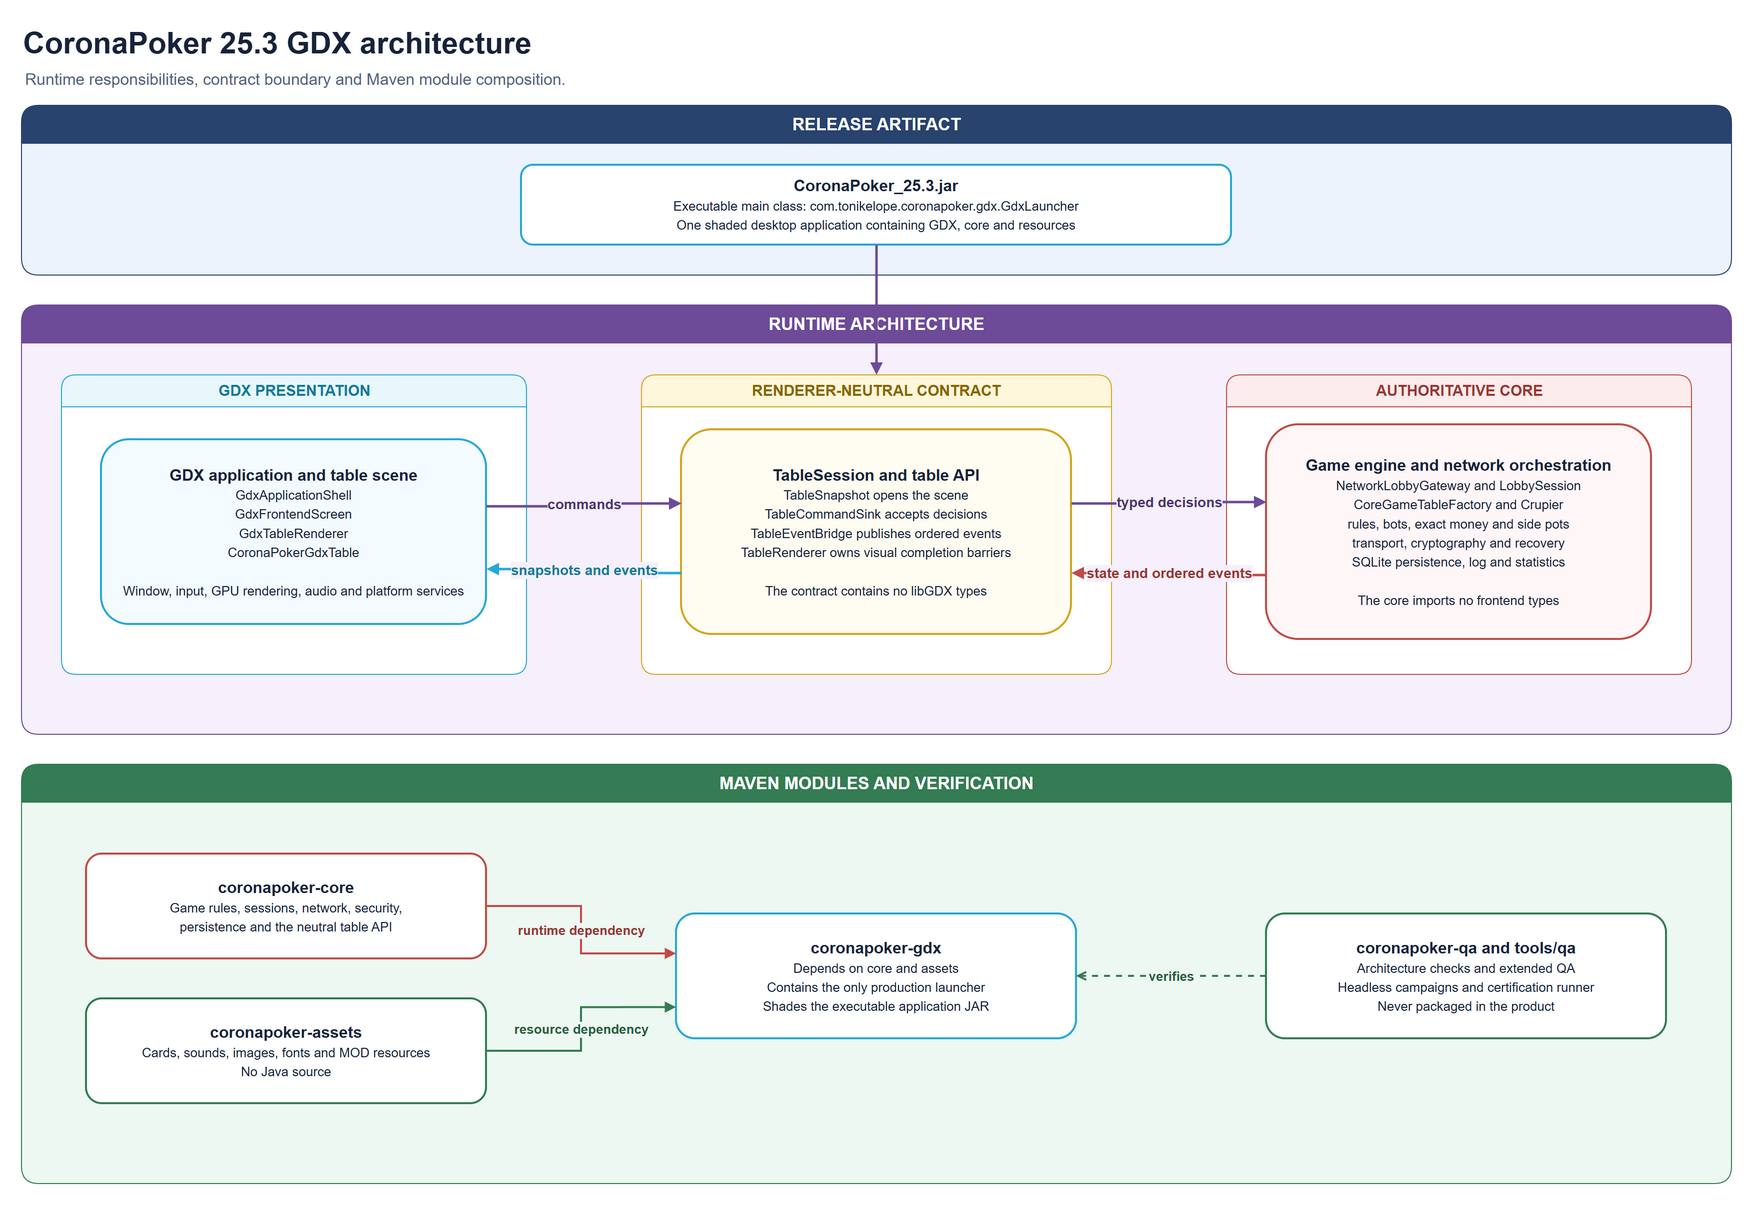
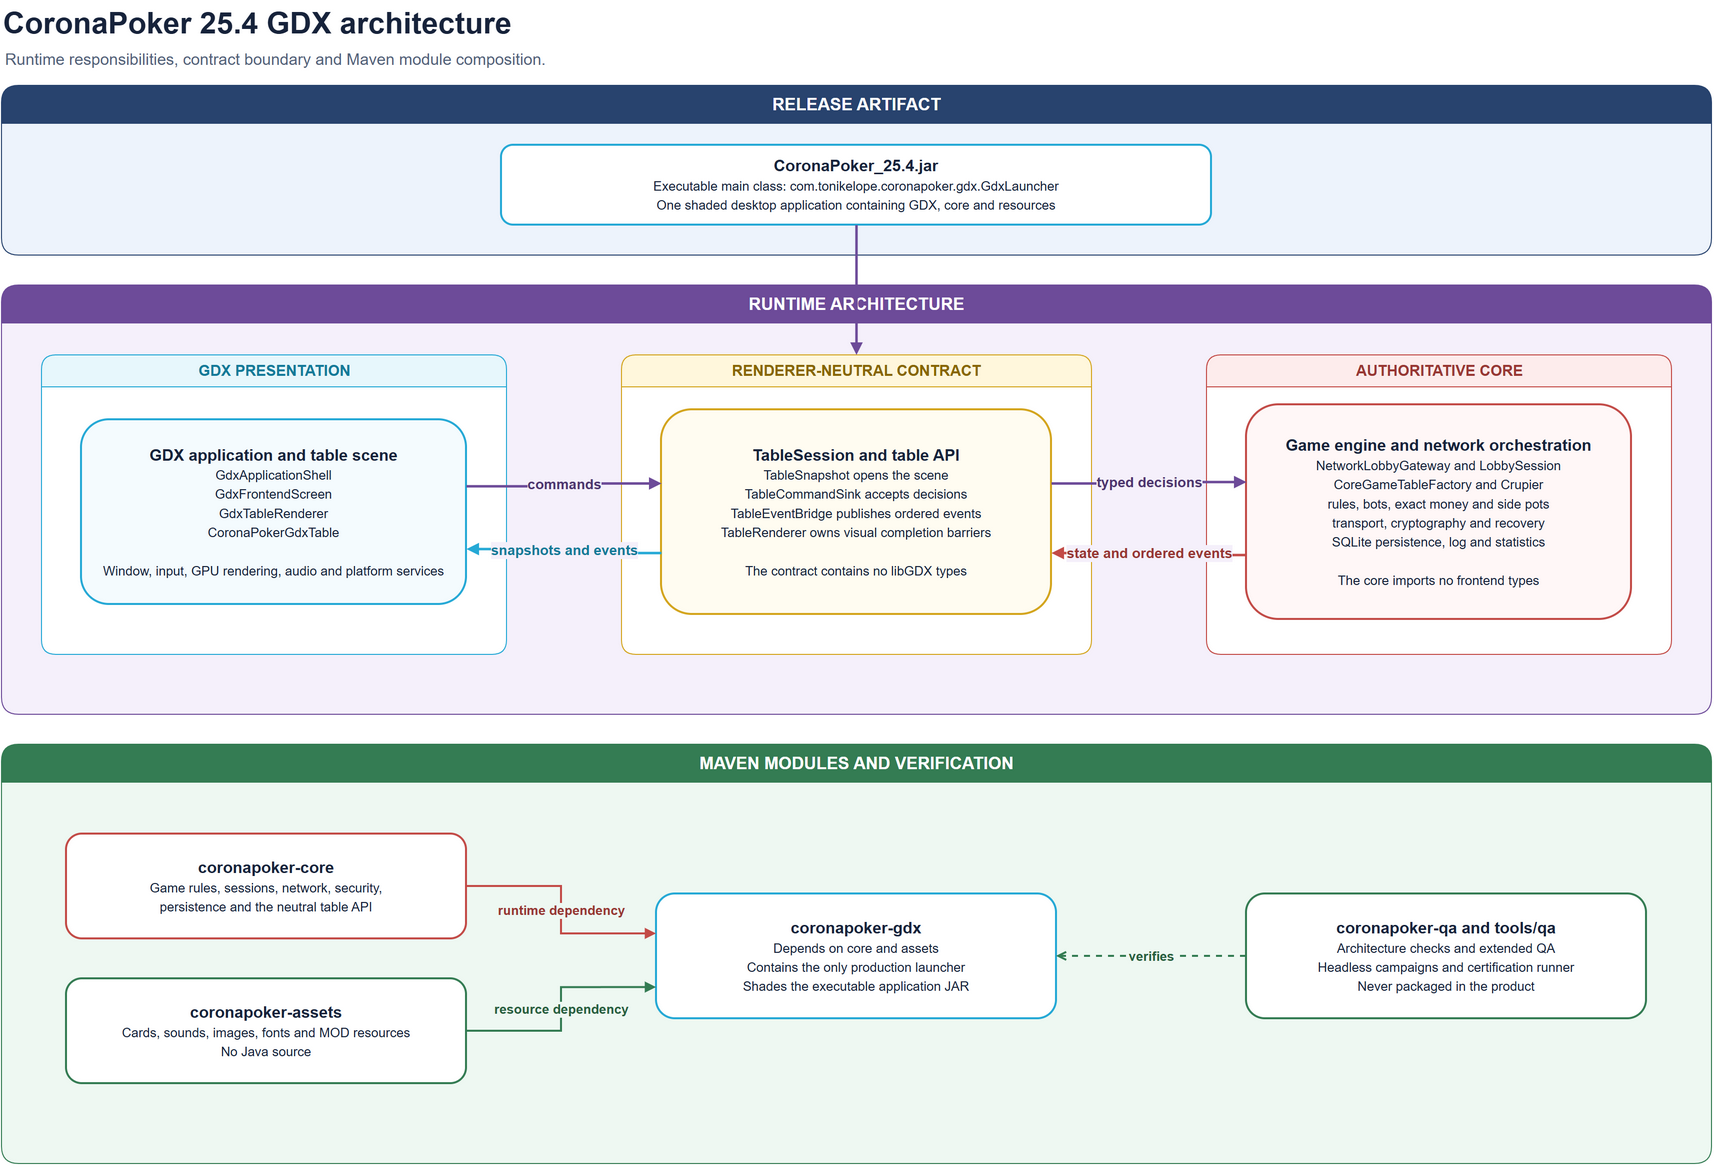
Release CoronaPoker 25.4

diff --git a/modules/coronapoker-gdx/src/main/java/com/tonikelope/coronapoker/gdx/GdxFrontendScreen.java b/modules/coronapoker-gdx/src/main/java/com/tonikelope/coronapoker/gdx/GdxFrontendScreen.java
@@ -268,6 +268,7 @@ final class GdxFrontendScreen extends ApplicationAdapter implements InputProcess
     private Texture aboutMourningIcon;
     private Texture aboutBookIcon;
     private Texture aboutCrossIcon;
+    private Texture aboutModIcon;
     private Sound soundEnabledCue;
     private Sound soundDisabledCue;
     private Sound participantJoinedCue;
@@ -488,6 +489,8 @@ final class GdxFrontendScreen extends ApplicationAdapter implements InputProcess
         aboutBookIcon = silhouetteTexture("images/open-book.png",
                 new Color(0xeaf8ffff));
         aboutCrossIcon = filteredTexture("images/cruz.png");
+        aboutModIcon = externalTexture(
+                presentationSettings.modAsset("mod.png").orElse(null));
         soundEnabledCue = Gdx.audio.newSound(
                 Gdx.files.internal("sounds/misc/button_on.wav"));
         soundDisabledCue = Gdx.audio.newSound(
@@ -782,9 +785,21 @@ final class GdxFrontendScreen extends ApplicationAdapter implements InputProcess
             } else if (aboutOpen && aboutEasterEggTexture == null) {
                 float logoHeight = ABOUT_LOGO_WIDTH * logo.getHeight()
                         / logo.getWidth();
+                float logoX = aboutModIcon == null
+                        ? WIDTH / 2f - ABOUT_LOGO_WIDTH / 2f
+                        : WIDTH / 2f - ABOUT_LOGO_WIDTH - 16f;
                 batch.setColor(Color.WHITE);
-                batch.draw(logo, WIDTH / 2f - ABOUT_LOGO_WIDTH / 2f,
+                batch.draw(logo, logoX,
                         ABOUT_LOGO_Y, ABOUT_LOGO_WIDTH, logoHeight);
+                if (aboutModIcon != null) {
+                    float scale = Math.min(180f / aboutModIcon.getWidth(),
+                            72f / aboutModIcon.getHeight());
+                    float modWidth = aboutModIcon.getWidth() * scale;
+                    float modHeight = aboutModIcon.getHeight() * scale;
+                    batch.draw(aboutModIcon, WIDTH / 2f + 16f,
+                            ABOUT_LOGO_Y + (logoHeight - modHeight) / 2f,
+                            modWidth, modHeight);
+                }
                 // Keep the mourning ribbon visually attached to the memorial
                 // line, as in the original Swing composition. The previous
                 // far-left placement looked like an unrelated control.
@@ -2410,14 +2425,24 @@ final class GdxFrontendScreen extends ApplicationAdapter implements InputProcess
 
         float aboutLogoHeight = ABOUT_LOGO_WIDTH * logo.getHeight()
                 / logo.getWidth();
-        hit(WIDTH / 2f - ABOUT_LOGO_WIDTH / 2f, ABOUT_LOGO_Y,
+        float aboutLogoX = aboutModIcon == null
+                ? WIDTH / 2f - ABOUT_LOGO_WIDTH / 2f
+                : WIDTH / 2f - ABOUT_LOGO_WIDTH - 16f;
+        hit(aboutLogoX, ABOUT_LOGO_Y,
                 ABOUT_LOGO_WIDTH, aboutLogoHeight,
                 () -> openExternalUri(ABOUT_PROJECT_URI,
                         "gdx.about.open_failed"));
 
+        if (presentationSettings.modActive()) {
+            textFit(tinyFont, gameText.translate("gdx.about.mod_loaded",
+                            presentationSettings.modDisplayName()),
+                    WIDTH / 2f + 106f, 748f, Color.WHITE, true, 300f);
+        }
+
         centeredWrappedText(smallFont,
                 gameText.translate("about.merecemos"), WIDTH / 2f,
-                730f, w - 150f, 25f, 2, Color.WHITE);
+                presentationSettings.modActive() ? 714f : 730f,
+                w - 150f, 25f, 2, Color.WHITE);
         centeredWrappedText(tinyFont,
                 gameText.translate("about.gracias_1"), WIDTH / 2f,
                 674f, w - 130f, 21f, 2, MUTED);
@@ -2593,8 +2618,21 @@ final class GdxFrontendScreen extends ApplicationAdapter implements InputProcess
     }
 
     private void drawFrontendVersionLabel() {
-        textFit(tinyFont, "CoronaPoker " + ApplicationMetadata.VERSION,
-                16f, 20f, new Color(0xd5dfebc0), false, 260f);
+        textFit(tinyFont, presentationSettings.productVersionLabel(),
+                16f, 20f, new Color(0xd5dfebc0), false, 620f);
+    }
+
+    private static Texture externalTexture(java.nio.file.Path path) {
+        if (path == null) return null;
+        try {
+            Texture texture = new Texture(Gdx.files.absolute(path.toString()));
+            texture.setFilter(TextureFilter.Linear, TextureFilter.Linear);
+            return texture;
+        } catch (RuntimeException failure) {
+            LOGGER.log(Level.WARNING, "Could not load external image {0}",
+                    path);
+            return null;
+        }
     }
 
     static String aboutSystemText() {
@@ -8715,6 +8753,7 @@ final class GdxFrontendScreen extends ApplicationAdapter implements InputProcess
         aboutMourningIcon.dispose();
         aboutBookIcon.dispose();
         aboutCrossIcon.dispose();
+        if (aboutModIcon != null) aboutModIcon.dispose();
         soundEnabledCue.dispose();
         soundDisabledCue.dispose();
         participantJoinedCue.dispose();

diff --git a/modules/coronapoker-gdx/src/test/java/com/tonikelope/coronapoker/gdx/GdxGameTextTest.java b/modules/coronapoker-gdx/src/test/java/com/tonikelope/coronapoker/gdx/GdxGameTextTest.java
@@ -25,7 +25,7 @@ final class GdxGameTextTest {
 
         assertEquals(spanishKeys, englishKeys,
                 "GDX must never fall back to a different language or raw key");
-        assertEquals(469, spanishKeys.size(),
+        assertEquals(470, spanishKeys.size(),
                 "new GDX labels must be added symmetrically");
         for (String key : spanishKeys) {
             assertFalse(spanish.getProperty(key).isBlank(), key + " empty in es");
@@ -91,6 +91,11 @@ final class GdxGameTextTest {
                 text.translate("gdx.newgame.connecting_waiting_room"));
         assertEquals("New version 24.12",
                 text.translate("gdx.update.available", "24.12"));
+        assertEquals("CoronaPoker 25.3 is available.",
+                text.translate("gdx.update.message", "25.3"));
+        assertEquals("MOD LOADED: Chilean MOD v1.0",
+                text.translate("gdx.about.mod_loaded",
+                        "Chilean MOD v1.0"));
         assertEquals("Select avatar", text.translate("gdx.avatar.select"));
         assertEquals("No previous servers",
                 text.translate("gdx.newgame.no_previous_servers"));
@@ -136,6 +141,8 @@ final class GdxGameTextTest {
                 text.translate("gdx.newgame.connecting_waiting_room"));
         assertEquals("Nueva versión 24.12",
                 text.translate("gdx.update.available", "24.12"));
+        assertEquals("CoronaPoker 25.3 está disponible.",
+                text.translate("gdx.update.message", "25.3"));
         assertEquals("2 de 5",
                 text.translate("gdx.newgame.blind_editor.level_count", 2, 5));
         assertEquals("MÍNIMO", text.translate("gdx.dialog.minimum"));

diff --git a/modules/coronapoker-gdx/src/main/java/com/tonikelope/coronapoker/gdx/GdxGamePresentationSettings.java b/modules/coronapoker-gdx/src/main/java/com/tonikelope/coronapoker/gdx/GdxGamePresentationSettings.java
@@ -1,6 +1,7 @@
 /* Copyright (C) 2026 tonikelope; GPLv3 or later. */
 package com.tonikelope.coronapoker.gdx;
 
+import com.tonikelope.coronapoker.core.ApplicationMetadata;
 import com.tonikelope.coronapoker.core.PreferencesService;
 import com.tonikelope.coronapoker.core.game.GamePresentationSettings;
 import com.tonikelope.coronapoker.core.media.ModMediaCatalog;
@@ -254,6 +255,24 @@ final class GdxGamePresentationSettings implements GamePresentationSettings {
         return Math.floorMod(current - 1, size);
     }
     boolean modActive() { return modMedia.installed(); }
+    String modDisplayName() {
+        return modDisplayName(modMedia.name(), modMedia.version());
+    }
+    static String modDisplayName(String name, String version) {
+        String normalizedName = name == null ? "" : name.trim();
+        String normalizedVersion = version == null ? "" : version.trim();
+        if (normalizedName.isEmpty()) return "";
+        if (normalizedVersion.isEmpty()) return normalizedName;
+        String prefix = normalizedVersion.regionMatches(true, 0, "v", 0, 1)
+                ? " " : " v";
+        return normalizedName + prefix + normalizedVersion;
+    }
+    String productVersionLabel() {
+        String product = "CoronaPoker " + ApplicationMetadata.VERSION;
+        String mod = modDisplayName();
+        return modActive() && !mod.isEmpty()
+                ? product + " (" + mod + ")" : product;
+    }
     boolean modDeck(String deck) {
         return deck != null && modMedia.decks().stream()
                 .anyMatch(deck::equalsIgnoreCase);

diff --git a/modules/coronapoker-gdx/src/test/java/com/tonikelope/coronapoker/gdx/GdxGamePresentationSettingsTest.java b/modules/coronapoker-gdx/src/test/java/com/tonikelope/coronapoker/gdx/GdxGamePresentationSettingsTest.java
@@ -4,6 +4,7 @@ import static org.junit.jupiter.api.Assertions.assertTrue;
 import static org.junit.jupiter.api.Assertions.assertFalse;
 import static org.junit.jupiter.api.Assertions.assertEquals;
 
+import com.tonikelope.coronapoker.core.ApplicationMetadata;
 import com.tonikelope.coronapoker.core.PreferencesService;
 import com.tonikelope.coronapoker.core.media.ModMediaCatalog;
 import java.nio.file.Files;
@@ -374,8 +375,21 @@ final class GdxGamePresentationSettingsTest {
             assertTrue(settings.modDeck("pepsiman"));
             assertTrue(settings.modAsset("decks/pepsiman/hq/A_C.jpg")
                     .isPresent());
+            assertEquals("Test v1", settings.modDisplayName());
+            assertEquals("CoronaPoker " + ApplicationMetadata.VERSION
+                    + " (Test v1)", settings.productVersionLabel());
         } finally {
             preferences.close();
         }
+    }
+
+    @Test
+    void modVersionPrefixIsNotDuplicated() {
+        assertEquals("Chilean MOD v1.0",
+                GdxGamePresentationSettings.modDisplayName(
+                        "Chilean MOD", "v1.0"));
+        assertEquals("Chilean MOD",
+                GdxGamePresentationSettings.modDisplayName(
+                        "Chilean MOD", ""));
     }
 }

diff --git a/tools/qa/src/test/java/com/tonikelope/coronapoker/DealerDatabasePortWiringTest.java b/tools/qa/src/test/java/com/tonikelope/coronapoker/DealerDatabasePortWiringTest.java
@@ -46,7 +46,8 @@ final class DealerDatabasePortWiringTest {
         assertTrue(dealer.contains("new TableVisualEvent.ActionControls("));
         assertTrue(dealer.contains("setVoluntaryShowAction(true"));
         assertTrue(dealer.contains("setVoluntaryShowAction(false"));
-        assertTrue(dealer.contains("game_decisions.replayRecoveredAction("));
+        assertTrue(dealer.contains("current_player.submitRecoveredDecision("));
+        assertFalse(dealer.contains("game_decisions.replayRecoveredAction("));
         assertTrue(dealer.contains("table_display.suspendVoluntaryShowAction("));
         assertTrue(dealer.contains("table_display.activateLocalPreActions("));
         assertTrue(dealer.contains("table_display.deactivateLocalControls("));

diff --git a/modules/coronapoker-core/src/main/java/com/tonikelope/coronapoker/core/ApplicationMetadata.java b/modules/coronapoker-core/src/main/java/com/tonikelope/coronapoker/core/ApplicationMetadata.java
@@ -8,7 +8,7 @@ import java.util.Properties;
 /** Renderer-neutral application identity for the CoronaPoker product. */
 public final class ApplicationMetadata {
 
-    private static final String FALLBACK_VERSION = "25.3";
+    private static final String FALLBACK_VERSION = "25.4";
     private static final String VERSION_RESOURCE
             = "/META-INF/coronapoker-version.properties";
 

diff --git a/modules/coronapoker-core/src/test/java/com/tonikelope/coronapoker/core/ApplicationMetadataTest.java b/modules/coronapoker-core/src/test/java/com/tonikelope/coronapoker/core/ApplicationMetadataTest.java
@@ -8,6 +8,6 @@ final class ApplicationMetadataTest {
 
     @Test
     void modularProductUsesItsPackagedRuntimeVersion() {
-        assertEquals("25.3", ApplicationMetadata.VERSION);
+        assertEquals("25.4", ApplicationMetadata.VERSION);
     }
 }

diff --git a/README.md b/README.md
@@ -247,7 +247,7 @@ duplicated product classes.
 
 ### Repository layout
 
-- `pom.xml`: canonical CoronaPoker 25.3 build entry point.
+- `pom.xml`: canonical CoronaPoker 25.4 build entry point.
 - `modules/coronapoker-core/`: shared game, networking, persistence and
   renderer-neutral presentation contracts.
 - `modules/coronapoker-gdx/`: libGDX application and desktop launcher.
@@ -292,11 +292,11 @@ target/CoronaPoker_<version>.jar
 The application is shaded into a module-local staging JAR and published to
 `target/` only after that archive is complete. This prevents a running table
 from reading a partially rewritten JAR.
-The root `pom.xml` is the canonical 25.3 product entry point and delegates to
+The root `pom.xml` is the canonical 25.4 product entry point and delegates to
 the module reactor.
 
 The local distribution and the GitHub release asset use the historical name
-`target/CoronaPoker_25.3.jar`. The updater downloads that versioned asset and
+`target/CoronaPoker_25.4.jar`. The updater downloads that versioned asset and
 installs it beside the running application as `CoronaPoker.jar`, then relaunches
 that stable filename. No manual rename is required.
 

diff --git a/docs/ARCHITECTURE.md b/docs/ARCHITECTURE.md
@@ -1,6 +1,6 @@
 # CoronaPoker architecture
 
-CoronaPoker 25.3 is a libGDX desktop application. Poker rules, network
+CoronaPoker 25.4 is a libGDX desktop application. Poker rules, network
 protocols, persistence and security live in a renderer-independent core. The
 GDX module owns presentation and user input. Maven enforces this dependency
 direction and packages the modules as one runnable application.
@@ -141,7 +141,7 @@ Each code module has its own source tree. The modules are internal build units,
 not separate products. The distribution contains one executable:
 
 ```text
-target/CoronaPoker_25.3.jar
+target/CoronaPoker_25.4.jar
 ```
 
 ## Dependency rules

diff --git a/modules/README.md b/modules/README.md
@@ -1,4 +1,4 @@
-# CoronaPoker 25.3 product modules
+# CoronaPoker 25.4 product modules
 
 This directory contains the Maven reactor for the CoronaPoker desktop
 application. The modules provide compile-time boundaries inside one product.
@@ -41,7 +41,7 @@ The reactor publishes the runnable application to the repository's product
 artifact directory:
 
 ```text
-target/CoronaPoker_25.3.jar
+target/CoronaPoker_25.4.jar
 ```
 
 The root `coronaupdater.jar` is retained because the self-updater requires that
